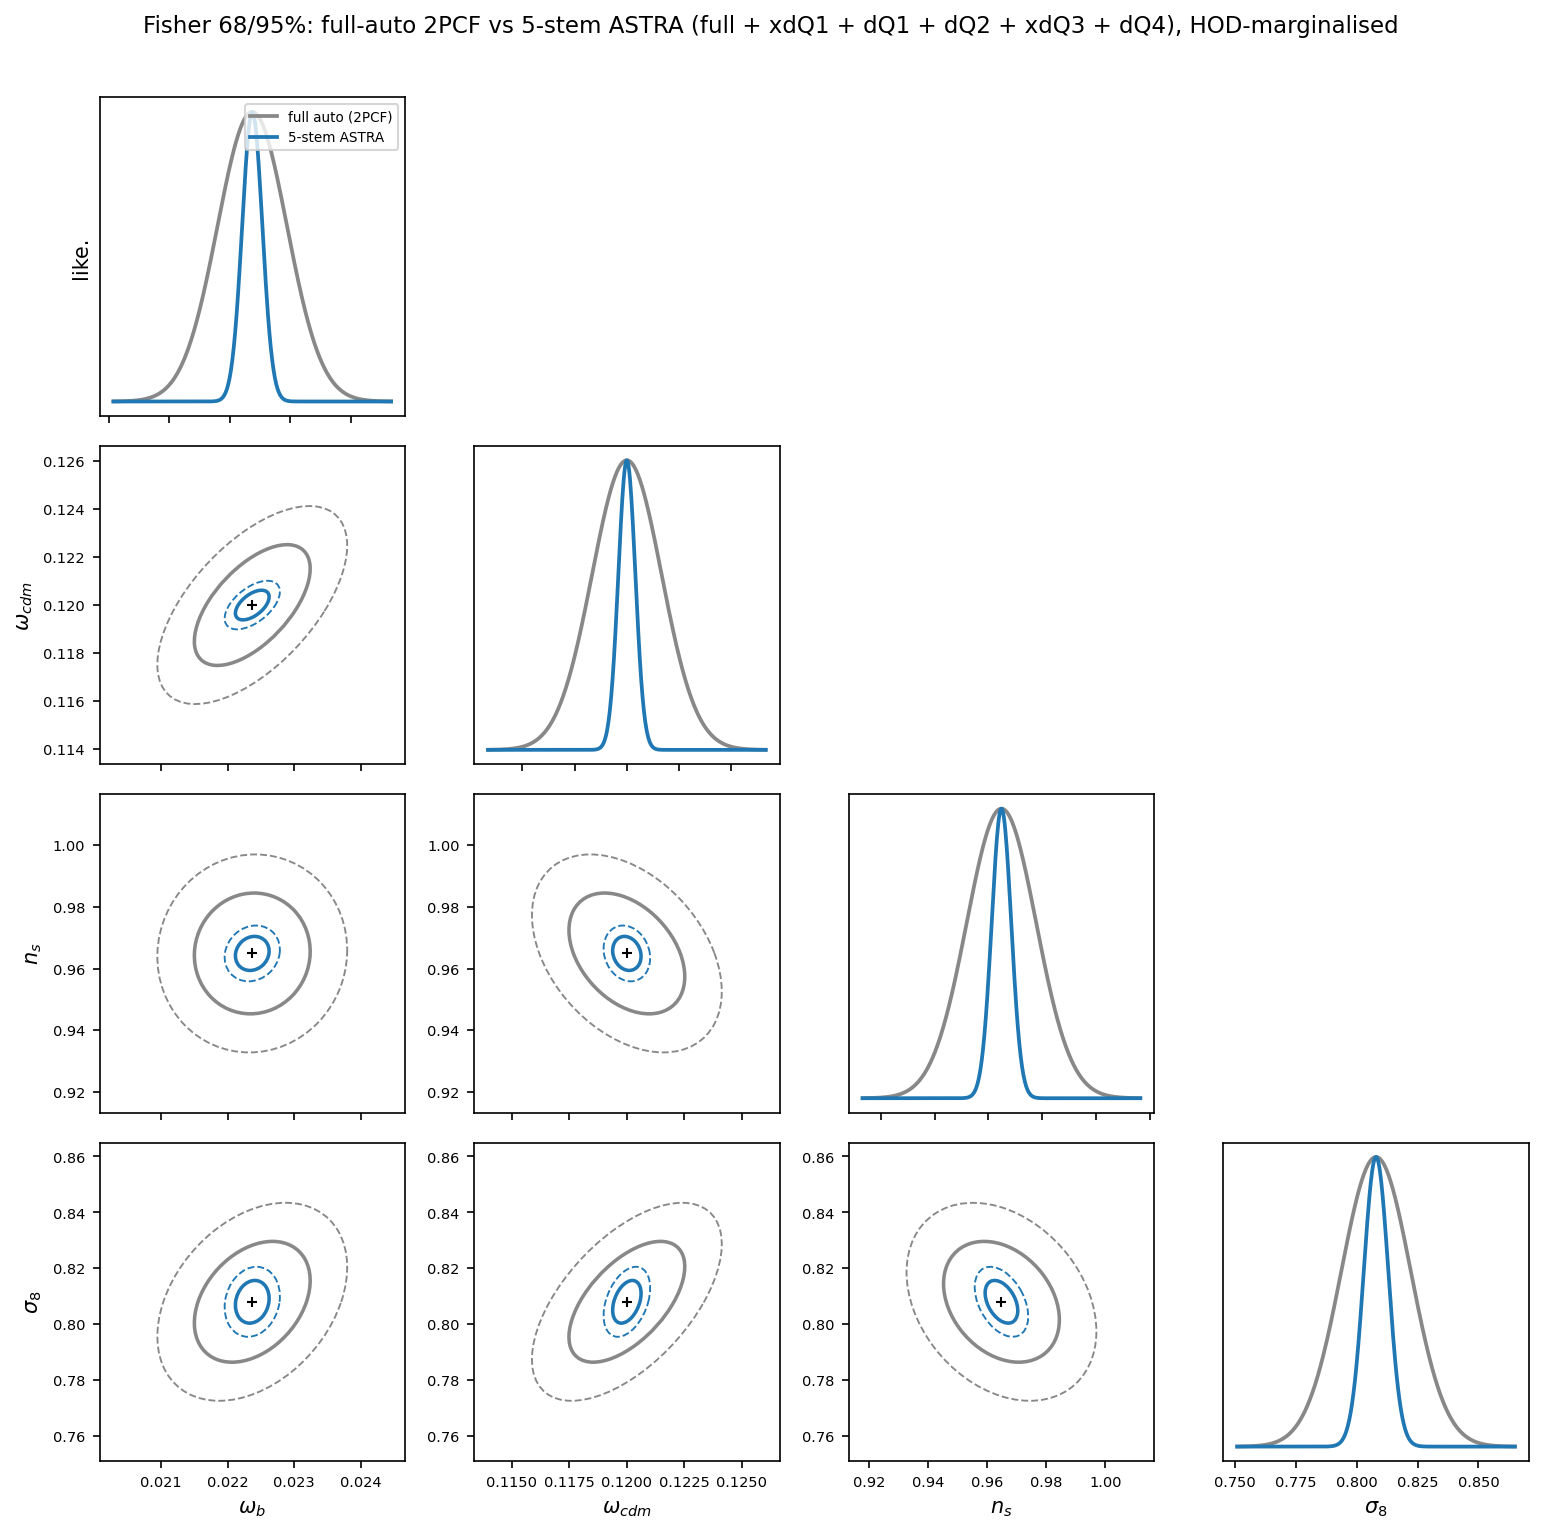
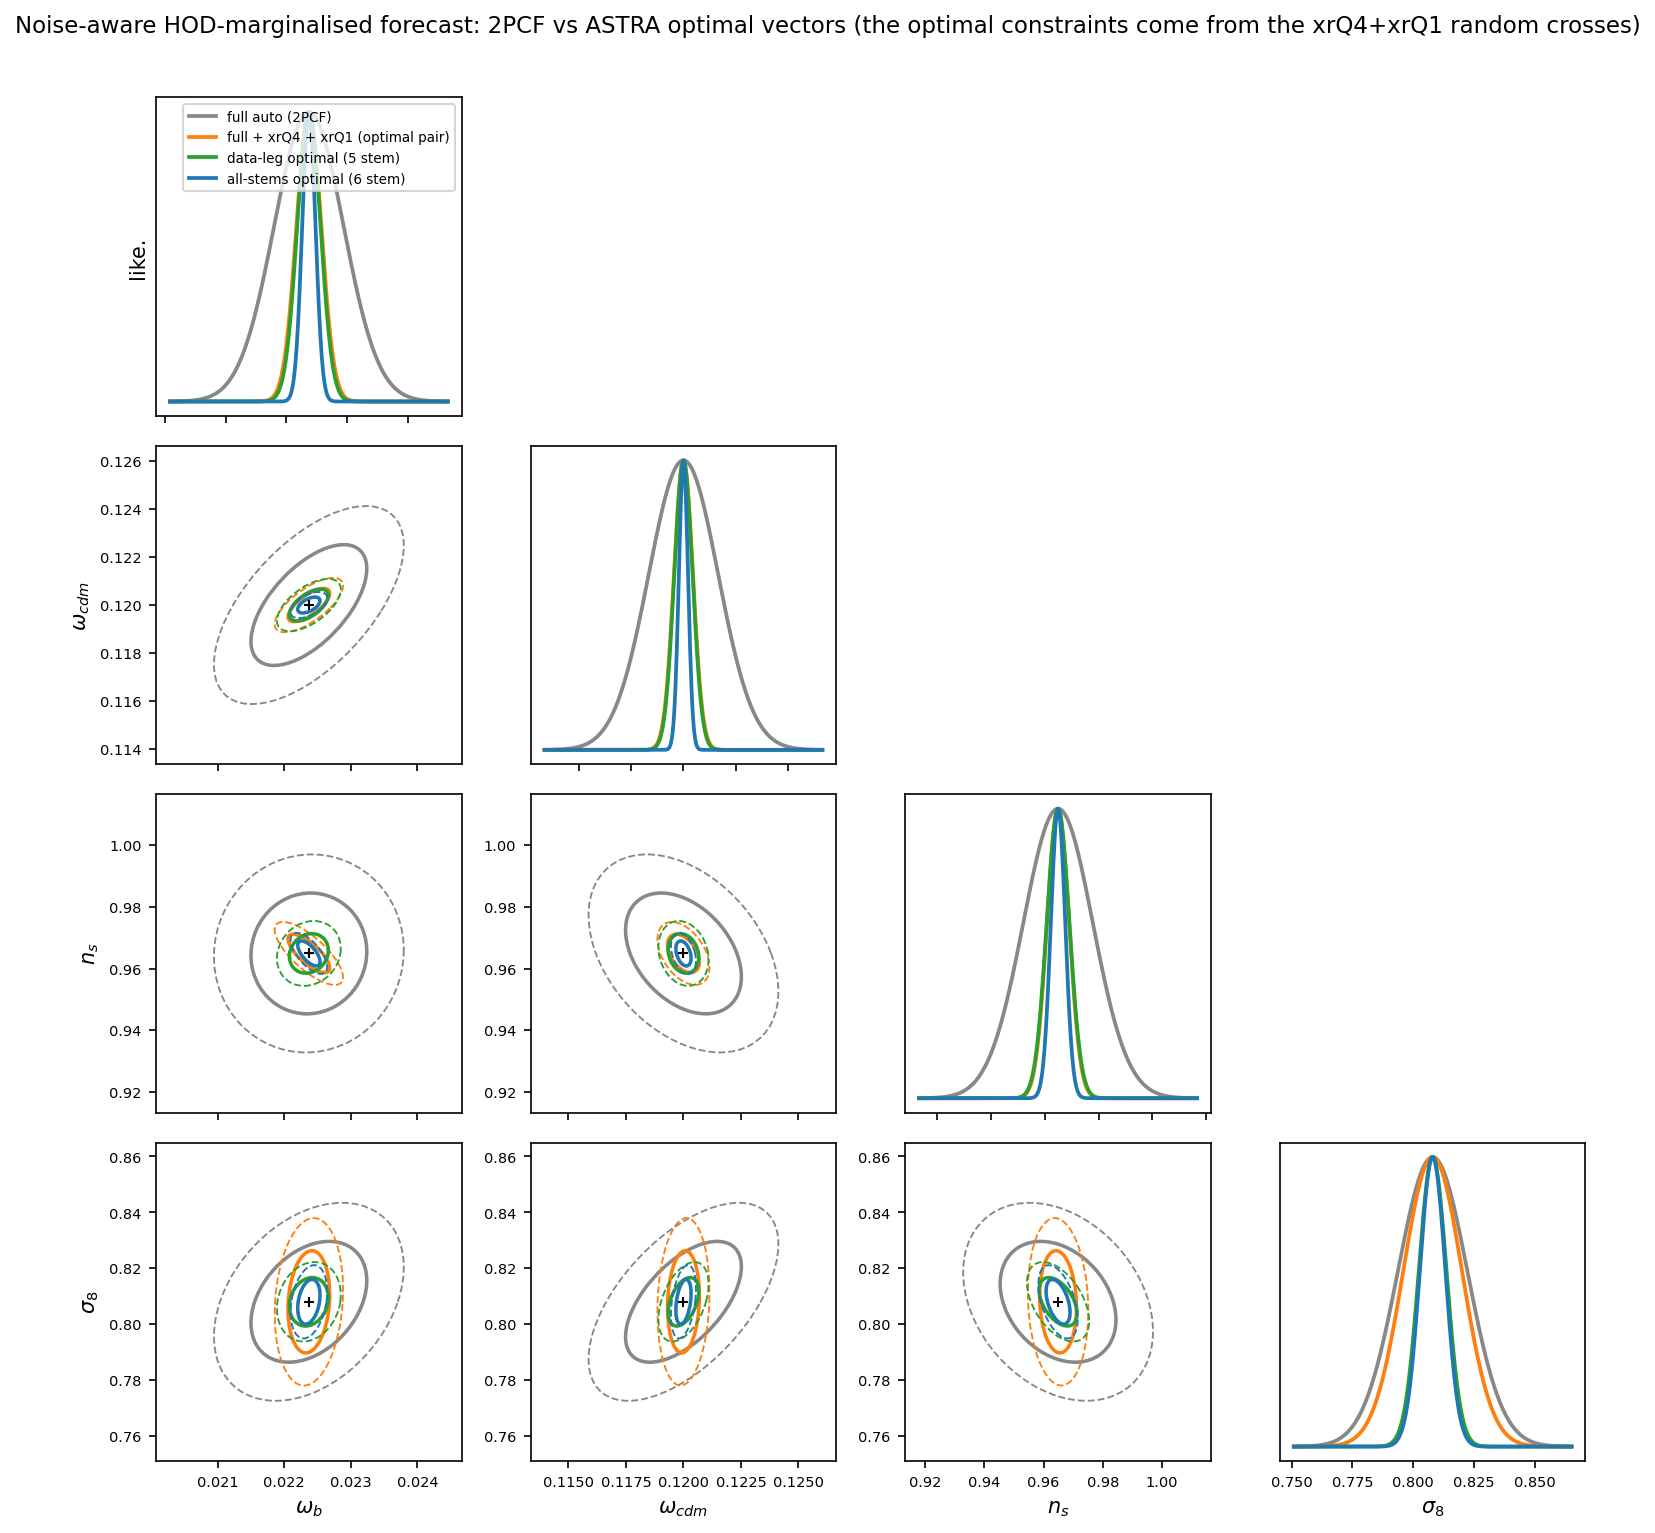
fisher_compare_full: include the xrQ4+xrQ1 optimal constraints (noise-aware)
Updated the corner comparison to noise-aware and to include the optimal random
crosses. Four overlaid constraints: 2PCF; full+xrQ4+xrQ1 (the void/knot random
cross pair); data-leg 5-stem; all-stems optimal 6-stem. Confirms the greedy
reading: the xrQ4+xrQ1 PAIR alone gives FoM3 48x (wb 2.8x wc 3.6x ns 3.1x) --
more than the data-leg 5-stem (32x) -- and the all-stems optimal reaches 210x.

diff --git a/scripts/fisher_compare_full_vs_5stem.py b/scripts/fisher_compare_full_vs_5stem.py
@@ -1,42 +1,82 @@
 #!/usr/bin/env python3
 """
-Fisher corner comparison: the full-sample auto-correlation (standard 2PCF) vs the
-5-stem greedy ASTRA vector (full + xdQ1 + dQ1 + dQ2 + xdQ3 + dQ4), HOD-marginalised.
-Output: plots/vector_search/fisher_compare_full_vs_5stem.png.
-Run: python scripts/fisher_compare_full_vs_5stem.py
+Fisher corner comparison (noise-aware, HOD-marginalised) of the standard 2PCF
+against the optimal ASTRA vectors -- including the optimal constraints driven by
+the void/knot random crosses xrQ4 + xrQ1 (the first two picks of the all-stems
+greedy chain, which alone take FoM3 from 1 to ~48x).
+
+Four overlaid constraints:
+  * full auto (2PCF)                            baseline
+  * full + xrQ4 + xrQ1                          the optimal random-cross pair
+  * data-leg optimal (5 stem)                   survey-robust subset
+  * all-stems optimal (6 stem)                  the best: full + xrQ4 + xrQ1 +
+                                                xdQ3 + xdQ4 + dQ1 + xrQ3
+All use the noise-aware Fisher (derivative-noise bias subtracted, matching
+greedy_chain_all). Needs data/derivatives/derivative_global_var_*.npz.
+Output: plots/vector_search/fisher_compare_full_vs_5stem.png
 """
 from pathlib import Path
 import numpy as np
 import fisher_joint as fj
 
 PLOT = Path(__file__).resolve().parents[1] / 'plots' / 'vector_search'
-MQ = (0, 2)
-PARAMS = list(fj.COSMO)
-FIVE = ['tpcf_cross_full_data_q1', 'tpcf_data_q1', 'tpcf_data_q2',
-        'tpcf_cross_full_data_q3', 'tpcf_data_q4']                 # xdQ1 dQ1 dQ2 xdQ3 dQ4
+DER = fj.DER_DIR
+MQ = (0, 2); NB = 15
+PARAMS = list(fj.COSMO); ncos = len(PARAMS)
+DVAR = {p: np.load(DER / f'derivative_global_var_{p}.npz') for p in PARAMS}
+
+VECTORS = {
+    'full auto (2PCF)': ['tpcf_full_data'],
+    'full + xrQ4 + xrQ1 (optimal pair)': ['tpcf_full_data',
+        'tpcf_cross_full_rand_q4', 'tpcf_cross_full_rand_q1'],
+    'data-leg optimal (5 stem)': ['tpcf_full_data', 'tpcf_cross_full_data_q1',
+        'tpcf_data_q1', 'tpcf_data_q2', 'tpcf_cross_full_data_q3', 'tpcf_data_q4'],
+    'all-stems optimal (6 stem)': ['tpcf_full_data', 'tpcf_cross_full_rand_q4',
+        'tpcf_cross_full_rand_q1', 'tpcf_cross_full_data_q3',
+        'tpcf_cross_full_data_q4', 'tpcf_data_q1', 'tpcf_cross_full_rand_q3'],
+}
+COLORS = {'full auto (2PCF)': '#888888',
+          'full + xrQ4 + xrQ1 (optimal pair)': '#ff7f0e',
+          'data-leg optimal (5 stem)': '#2ca02c',
+          'all-stems optimal (6 stem)': '#1f77b4'}
+
+
+def noise_aware_cov(stems):
+    """Noise-aware HOD-marginalised 4x4 cosmology covariance (ln units)."""
+    pieces = [(s, MQ, 1) for s in stems]
+    a = fj.assemble(pieces); Cinv = a['Cinv']; nb = a['nb']
+    D = np.vstack([a['D_cos'], a['D_hod']]); F = D @ Cinv @ D.T
+    cd = np.diag(Cinv); Vc = np.zeros((ncos, nb)); col = 0
+    for stem, ells, k in pieces:
+        for ell in ells:
+            for i, p in enumerate(PARAMS):
+                Vc[i, col:col + NB] = DVAR[p][f'{stem}_dxi{ell}']
+            col += NB
+    for i in range(ncos):
+        F[i, i] -= float((cd * Vc[i]).sum())
+    Fp = F.copy(); Fp[ncos:, ncos:] += np.diag(1.0 / a['sd_pr'] ** 2)
+    return np.linalg.inv(Fp)[:ncos, :ncos]
 
 
 def main():
-    full = [('tpcf_full_data', MQ, 1)]
-    five = full + [(s, MQ, 1) for s in FIVE]
-    cov_full = fj.fisher(full)['cov_marg']
-    cov_five = fj.fisher(five)['cov_marg']
+    covs = {n: noise_aware_cov(s) for n, s in VECTORS.items()}
+    phys = {n: fj.to_phys_cov(c, PARAMS) for n, c in covs.items()}
+    base = phys['full auto (2PCF)']; bsig = np.sqrt(np.diag(base))
+    print('Noise-aware HOD-marginalised forecast (sigma; factor vs 2PCF; FoM3):')
+    print(f'  {"vector":34s} ' + '  '.join(f'{p:>9s}' for p in PARAMS) + '   FoM3')
+    for n in VECTORS:
+        sig = np.sqrt(np.diag(phys[n]))
+        g3 = np.exp(-0.5 * (np.linalg.slogdet(phys[n][:3, :3])[1]
+                            - np.linalg.slogdet(base[:3, :3])[1]))
+        fac = '  '.join(f'{bsig[i]/sig[i]:7.1f}x' if n != 'full auto (2PCF)'
+                        else f'{sig[i]:9.2e}' for i in range(ncos))
+        print(f'  {n:34s} {fac}   {g3:5.0f}x')
 
-    pf = fj.to_phys_cov(cov_full, PARAMS); pv = fj.to_phys_cov(cov_five, PARAMS)
-    sf, sv = np.sqrt(np.diag(pf)), np.sqrt(np.diag(pv))
-    print(f'Derivatives: {fj.deriv_source()[0]};  covariance: pooled 576 subboxes\n')
-    print(f'{"param":8s} {"full auto":>11s} {"5-stem":>11s} {"factor":>7s}')
-    for i, p in enumerate(PARAMS):
-        print(f'{p:8s} {sf[i]:11.3e} {sv[i]:11.3e} {sf[i]/sv[i]:6.2f}x')
-    g3 = np.exp(-0.5 * (np.linalg.slogdet(pv[:3, :3])[1] - np.linalg.slogdet(pf[:3, :3])[1]))
-    print(f'\nFoM3 (wb,wc,ns) gain of 5-stem over full auto: {g3:.1f}x')
-
-    fj.corner([('full auto (2PCF)', cov_full, '#888888'),
-               ('5-stem ASTRA', cov_five, '#1f77b4')],
-              PARAMS, PLOT / 'fisher_compare_full_vs_5stem.png',
-              'Fisher 68/95%: full-auto 2PCF vs 5-stem ASTRA '
-              '(full + xdQ1 + dQ1 + dQ2 + xdQ3 + dQ4), HOD-marginalised',
-              ranges_from=pf)
+    fj.corner([(n, covs[n], COLORS[n]) for n in VECTORS], PARAMS,
+              PLOT / 'fisher_compare_full_vs_5stem.png',
+              'Noise-aware HOD-marginalised forecast: 2PCF vs ASTRA optimal vectors '
+              '(the optimal constraints come from the xrQ4+xrQ1 random crosses)',
+              ranges_from=base)
 
 
 if __name__ == '__main__':
